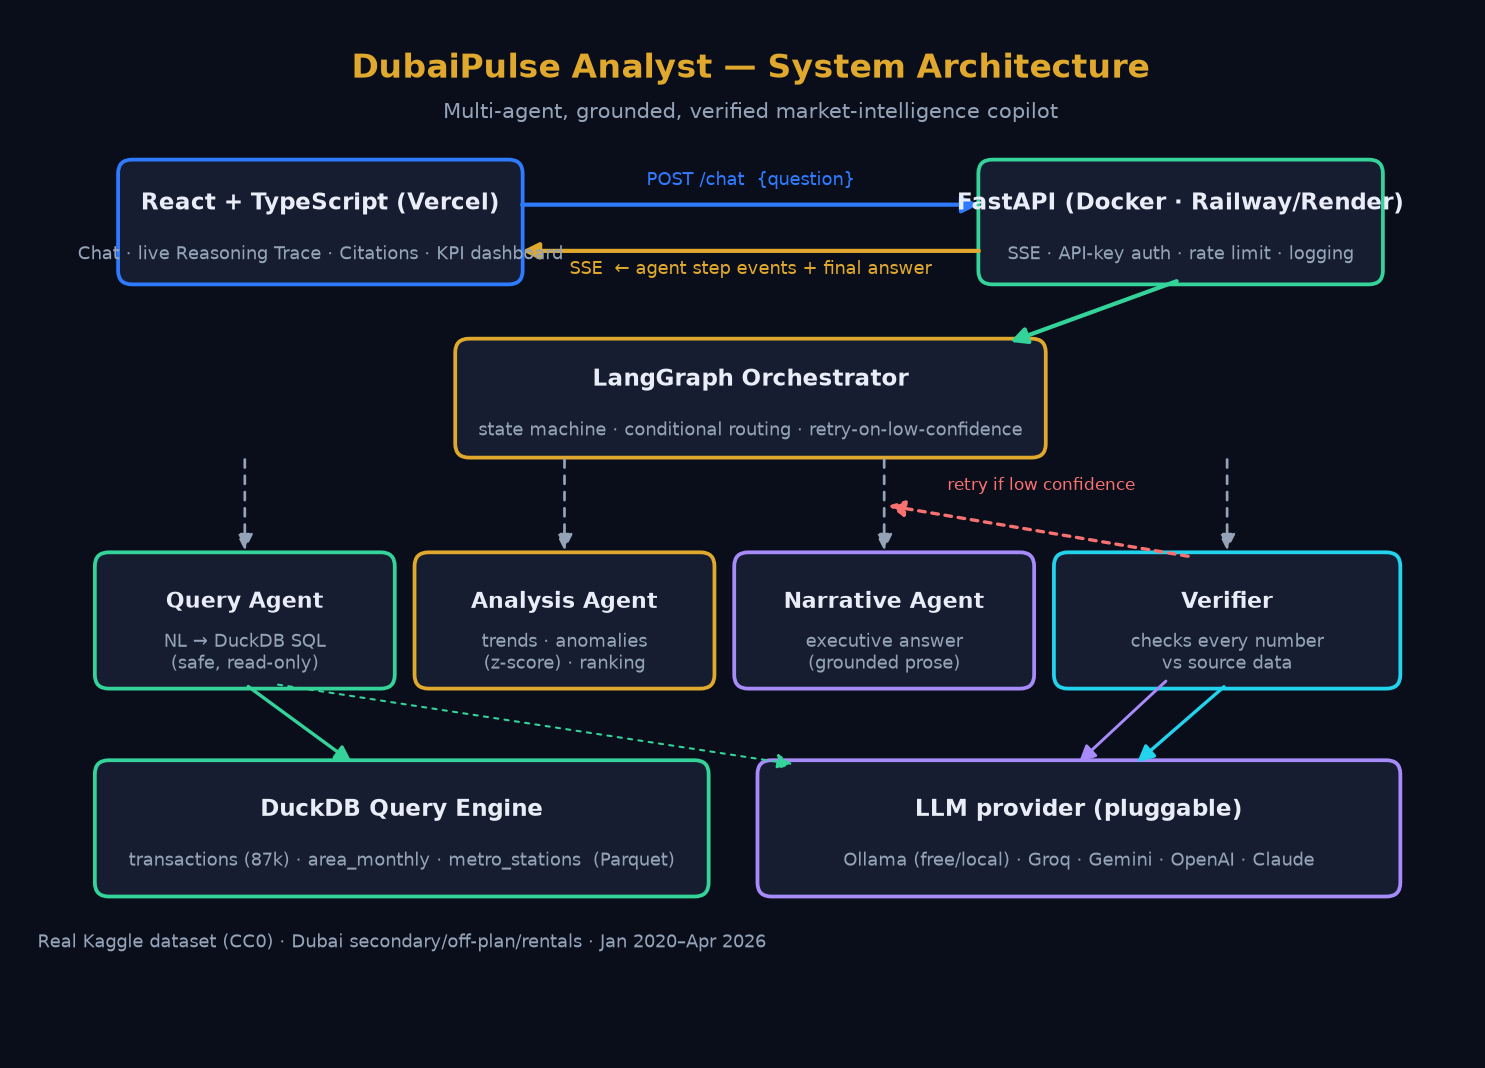
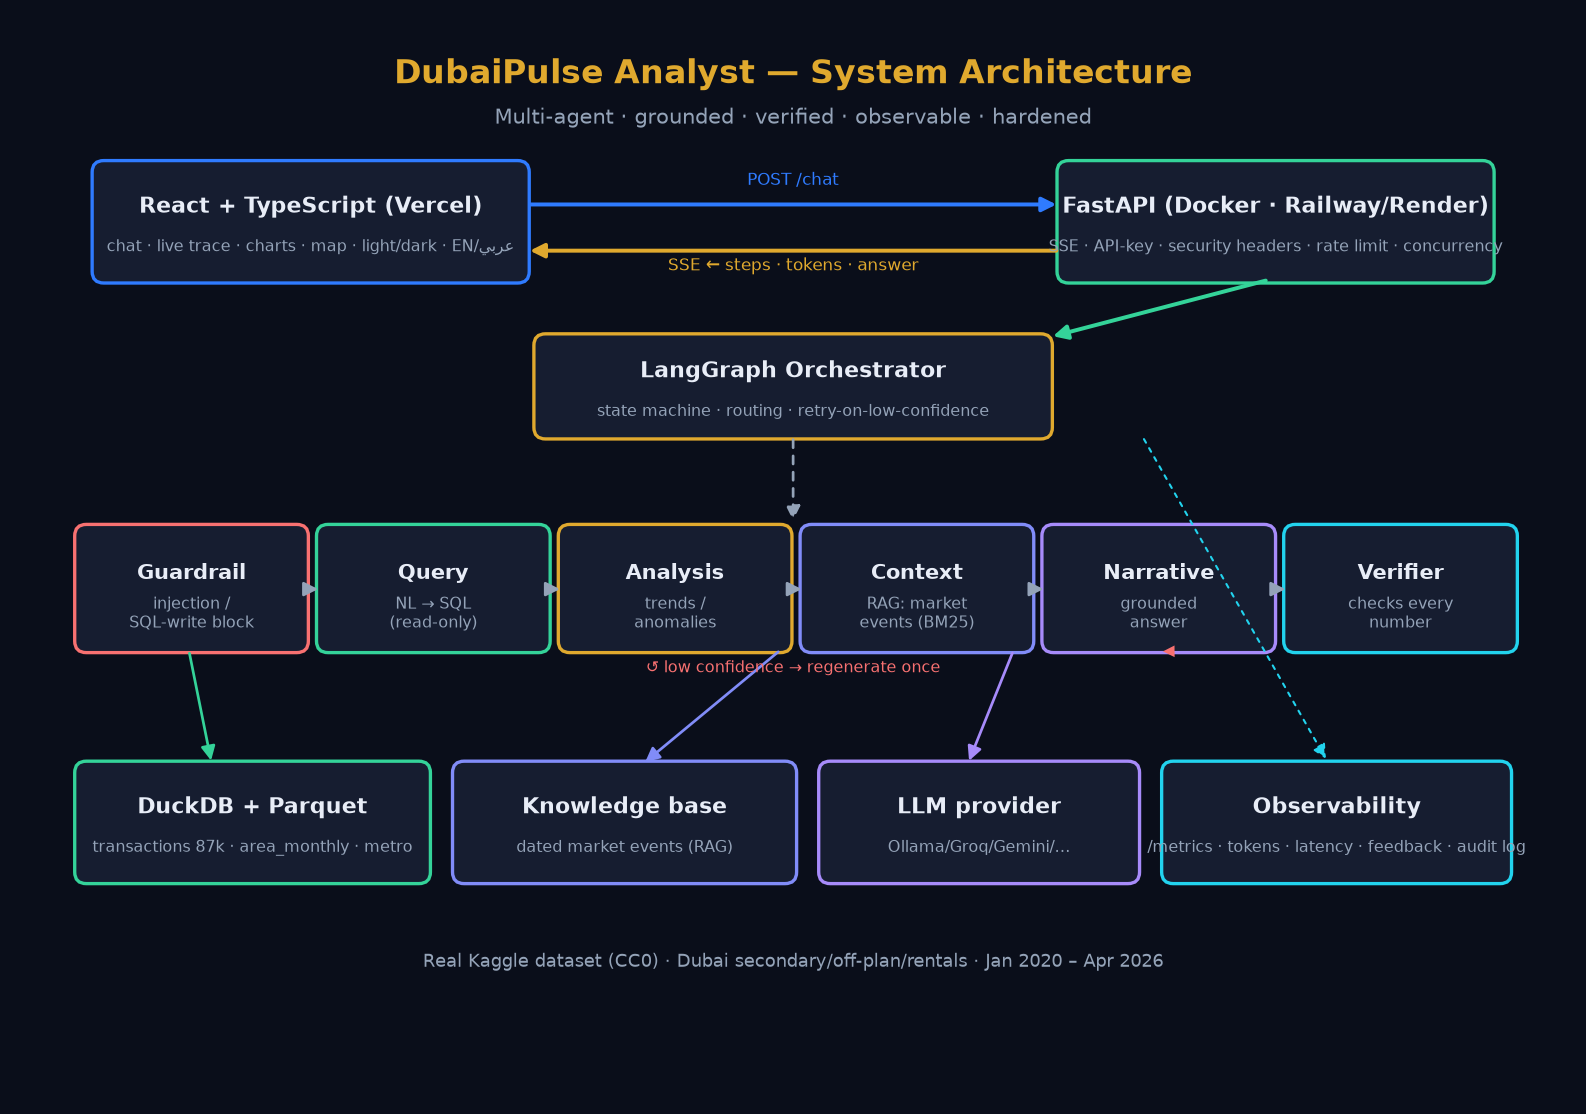
Docs — README + architecture diagram for security/observability/map/RAG/forecast
- README: features table, screenshots (trace/forecast/map/analytics), OWASP
  security + observability section, expanded tech stack.
- Architecture diagram: full 6-agent pipeline (Guardrail→Query→Analysis→Context
  →Narrative→Verifier) + knowledge base + observability + hardened backend.
- Refreshed eval report.

Changed region(s): [[0.031, 0.0309, 0.9603, 0.8961]]

diff --git a/docs/make_architecture_diagram.py b/docs/make_architecture_diagram.py
@@ -1,4 +1,4 @@
-"""Generate docs/architecture_diagram.png (the Section-5 flow). Run: python make_architecture_diagram.py"""
+"""Generate docs/architecture_diagram.png. Run: python make_architecture_diagram.py"""
 from pathlib import Path
 
 import matplotlib
@@ -6,76 +6,87 @@ matplotlib.use("Agg")
 import matplotlib.pyplot as plt
 from matplotlib.patches import FancyArrowPatch, FancyBboxPatch
 
-INK, INK2, GOLD, BRAND, CYAN, GREEN, PURPLE, TXT, MUT = (
-    "#0f1524", "#161d30", "#e0a92e", "#2f7bff", "#22d3ee", "#34d399", "#a78bfa", "#e8edf7", "#94a3b8"
+INK2, GOLD, BRAND, CYAN, GREEN, PURPLE, ROSE, INDIGO, TXT, MUT = (
+    "#161d30", "#e0a92e", "#2f7bff", "#22d3ee", "#34d399", "#a78bfa",
+    "#f87171", "#818cf8", "#e8edf7", "#94a3b8",
 )
 
-fig, ax = plt.subplots(figsize=(12, 8.6), dpi=150)
+fig, ax = plt.subplots(figsize=(13, 9), dpi=150)
 fig.patch.set_facecolor("#0a0e1a")
 ax.set_facecolor("#0a0e1a")
-ax.set_xlim(0, 12); ax.set_ylim(0, 8.6); ax.axis("off")
+ax.set_xlim(0, 13); ax.set_ylim(0, 9); ax.axis("off")
 
 
-def box(x, y, w, h, title, sub="", fc=INK2, ec=BRAND, tc=TXT, bold=True, fs=11):
-    ax.add_patch(FancyBboxPatch((x, y), w, h, boxstyle="round,pad=0.04,rounding_size=0.12",
-                                fc=fc, ec=ec, lw=1.8))
-    ax.text(x + w / 2, y + h / 2 + (0.16 if sub else 0), title, ha="center", va="center",
-            color=tc, fontsize=fs, fontweight="bold" if bold else "normal")
+def box(x, y, w, h, title, sub="", ec=BRAND, fs=10.5, tc=TXT):
+    ax.add_patch(FancyBboxPatch((x, y), w, h, boxstyle="round,pad=0.03,rounding_size=0.1",
+                                fc=INK2, ec=ec, lw=1.6))
+    ax.text(x + w / 2, y + h / 2 + (0.13 if sub else 0), title, ha="center", va="center",
+            color=tc, fontsize=fs, fontweight="bold")
     if sub:
-        ax.text(x + w / 2, y + h / 2 - 0.28, sub, ha="center", va="center", color=MUT, fontsize=8.5)
+        ax.text(x + w / 2, y + h / 2 - 0.22, sub, ha="center", va="center", color=MUT, fontsize=7.5)
 
 
-def arrow(x1, y1, x2, y2, color=GOLD, style="-|>", lw=2.0, ls="-"):
-    ax.add_patch(FancyArrowPatch((x1, y1), (x2, y2), arrowstyle=style, mutation_scale=16,
+def arrow(x1, y1, x2, y2, color=GOLD, lw=1.9, ls="-", style="-|>"):
+    ax.add_patch(FancyArrowPatch((x1, y1), (x2, y2), arrowstyle=style, mutation_scale=14,
                                  color=color, lw=lw, linestyle=ls, shrinkA=2, shrinkB=2))
 
 
-ax.text(6, 8.25, "DubaiPulse Analyst — System Architecture", ha="center",
+ax.text(6.5, 8.6, "DubaiPulse Analyst — System Architecture", ha="center",
         color=GOLD, fontsize=16, fontweight="bold")
-ax.text(6, 7.9, "Multi-agent, grounded, verified market-intelligence copilot", ha="center",
+ax.text(6.5, 8.25, "Multi-agent · grounded · verified · observable · hardened", ha="center",
         color=MUT, fontsize=10)
 
-# Frontend
-box(0.6, 6.5, 3.4, 1.0, "React + TypeScript (Vercel)",
-    "Chat · live Reasoning Trace · Citations · KPI dashboard", ec=BRAND)
-# Backend container
-box(8.0, 6.5, 3.4, 1.0, "FastAPI (Docker · Railway/Render)",
-    "SSE · API-key auth · rate limit · logging", ec=GREEN)
-
-arrow(4.0, 7.15, 8.0, 7.15, color=BRAND); ax.text(6, 7.32, "POST /chat  {question}", ha="center", color=BRAND, fontsize=8.5)
-arrow(8.0, 6.75, 4.0, 6.75, color=GOLD); ax.text(6, 6.55, "SSE  ← agent step events + final answer", ha="center", color=GOLD, fontsize=8.5)
+# Frontend / Backend
+box(0.5, 6.9, 3.7, 1.0, "React + TypeScript (Vercel)",
+    "chat · live trace · charts · map · light/dark · EN/عربي", ec=BRAND)
+box(8.8, 6.9, 3.7, 1.0, "FastAPI (Docker · Railway/Render)",
+    "SSE · API-key · security headers · rate limit · concurrency", ec=GREEN)
+arrow(4.2, 7.55, 8.8, 7.55, color=BRAND); ax.text(6.5, 7.72, "POST /chat", ha="center", color=BRAND, fontsize=8)
+arrow(8.8, 7.15, 4.2, 7.15, color=GOLD); ax.text(6.5, 6.98, "SSE ← steps · tokens · answer", ha="center", color=GOLD, fontsize=8)
 
 # Orchestrator
-box(3.5, 5.0, 5.0, 0.95, "LangGraph Orchestrator",
-    "state machine · conditional routing · retry-on-low-confidence", ec=GOLD)
-arrow(9.7, 6.5, 8.2, 5.95, color=GREEN)
+box(4.3, 5.55, 4.4, 0.85, "LangGraph Orchestrator",
+    "state machine · routing · retry-on-low-confidence", ec=GOLD)
+arrow(10.6, 6.9, 8.7, 6.4, color=GREEN)
 
-# Agents row
-box(0.4, 3.0, 2.5, 1.1, "Query Agent", "NL → DuckDB SQL\n(safe, read-only)", ec=GREEN, fs=10.5)
-box(3.15, 3.0, 2.5, 1.1, "Analysis Agent", "trends · anomalies\n(z-score) · ranking", ec=GOLD, fs=10.5)
-box(5.9, 3.0, 2.5, 1.1, "Narrative Agent", "executive answer\n(grounded prose)", ec=PURPLE, fs=10.5)
-box(8.65, 3.0, 2.9, 1.1, "Verifier", "checks every number\nvs source data", ec=CYAN, fs=10.5)
+# Agent pipeline (horizontal)
+pipe = [
+    ("Guardrail", "injection /\nSQL-write block", ROSE),
+    ("Query", "NL → SQL\n(read-only)", GREEN),
+    ("Analysis", "trends /\nanomalies", GOLD),
+    ("Context", "RAG: market\nevents (BM25)", INDIGO),
+    ("Narrative", "grounded\nanswer", PURPLE),
+    ("Verifier", "checks every\nnumber", CYAN),
+]
+w = 1.95; gap = 0.13; x0 = 0.35
+y = 3.7
+for i, (t, s, ec) in enumerate(pipe):
+    x = x0 + i * (w + gap)
+    box(x, y, w, 1.05, t, s, ec=ec, fs=10)
+    if i > 0:
+        arrow(x - gap - 0.02, y + 0.52, x + 0.02, y + 0.52, color=MUT, lw=1.3)
+# orchestrator down into pipeline
+arrow(6.5, 5.55, 6.5, 4.78, color=MUT, lw=1.3, ls=(0, (3, 3)))
+# retry loop verifier -> narrative
+arrow(pipe_x := x0 + 5 * (w + gap) + w / 2, y, x0 + 4 * (w + gap) + w / 2, y - 0.02, color=ROSE, lw=0, ls="-")
+ax.text(6.5, 3.5, "↺ low confidence → regenerate once", ha="center", color=ROSE, fontsize=7.5)
 
-# Orchestrator fans out to each agent (clean vertical connectors).
-for cx in (1.65, 4.4, 7.15, 10.1):
-    arrow(cx, 4.98, cx, 4.12, color=MUT, lw=1.3, ls=(0, (3, 3)))
+# Data / knowledge / LLM / observability
+box(0.35, 1.7, 3.0, 1.0, "DuckDB + Parquet",
+    "transactions 87k · area_monthly · metro", ec=GREEN)
+box(3.6, 1.7, 2.9, 1.0, "Knowledge base",
+    "dated market events (RAG)", ec=INDIGO)
+box(6.75, 1.7, 2.7, 1.0, "LLM provider",
+    "Ollama/Groq/Gemini/…", ec=PURPLE)
+box(9.7, 1.7, 2.95, 1.0, "Observability",
+    "/metrics · tokens · latency · feedback · audit log", ec=CYAN)
 
-# retry loop (verifier -> narrative)
-arrow(9.8, 4.1, 7.15, 4.55, color="#f87171", lw=1.6, ls=(0, (2, 2)))
-ax.text(8.5, 4.68, "retry if low confidence", ha="center", color="#f87171", fontsize=8)
+arrow(1.3, 3.7, 1.5, 2.7, color=GREEN, lw=1.3)          # query -> duckdb
+arrow(6.4, 3.7, 5.2, 2.7, color=INDIGO, lw=1.3)         # context -> KB
+arrow(8.4, 3.7, 8.0, 2.7, color=PURPLE, lw=1.3)         # narrative -> LLM
+arrow(9.5, 5.55, 11.1, 2.72, color=CYAN, lw=1.0, ls=(0, (2, 3)))  # telemetry
 
-# Data layer
-box(0.4, 1.2, 5.2, 1.1, "DuckDB Query Engine",
-    "transactions (87k) · area_monthly · metro_stations  (Parquet)", ec=GREEN)
-box(6.1, 1.2, 5.45, 1.1, "LLM provider (pluggable)",
-    "Ollama (free/local) · Groq · Gemini · OpenAI · Claude", ec=PURPLE)
-
-arrow(1.65, 3.0, 2.6, 2.3, color=GREEN, lw=1.6)          # query agent -> duckdb
-arrow(10.1, 3.0, 9.3, 2.3, color=CYAN, lw=1.6)           # verifier -> duckdb? -> checks data
-arrow(9.6, 3.05, 8.8, 2.3, color=PURPLE, lw=1.4)         # narrative -> claude
-arrow(1.9, 3.0, 6.4, 2.3, color=GREEN, lw=1.0, ls=(0, (2, 3)))
-
-ax.text(3.0, 0.72, "Real Kaggle dataset (CC0) · Dubai secondary/off-plan/rentals · Jan 2020–Apr 2026",
+ax.text(6.5, 0.95, "Real Kaggle dataset (CC0) · Dubai secondary/off-plan/rentals · Jan 2020 – Apr 2026",
         ha="center", color=MUT, fontsize=8.5)
 
 out = Path(__file__).parent / "architecture_diagram.png"

diff --git a/README.md b/README.md
@@ -57,18 +57,27 @@ It's a portfolio project designed to demonstrate real *production instincts* for
 | 🌍 **Bilingual (EN / العربية)** | Answer in English or Arabic (with RTL); Arabic questions auto-detected. |
 | 🌗 **Light & dark themes** | Polished, fully theme-aware UI with a one-click toggle (and `?theme=` deep-link). |
 | 🆓 **Free & pluggable LLM** | Runs on local **Ollama** with no API key/cost; swap to Groq/Gemini/OpenAI/Claude via one env var. |
+| 🔒 **OWASP-aligned security** | Input guardrail (prompt-injection/SQL-write block), security headers, concurrency cap, Redis-or-memory rate limiting. |
+| 📈 **Observability + feedback** | Per-request latency/token/cost telemetry, `/metrics`, JSONL audit log, 👍/👎 feedback. |
+| 🗺️ **Geospatial heatmap** | Interactive Dubai map — communities coloured by price/yield, sized by volume (free tiles, no token). |
+| 🔮 **Price forecasting** | Explainable trend + seasonality forecast with a ±2σ confidence band. |
+| 🔎 **RAG market context** | BM25 retrieval over dated, sourced market events grounds *why* answers with real citations. |
 
 ---
 
 ## Screenshots
 
-**Light mode — market overview & dashboard**
+| Live reasoning trace + verified answer (dark) | Market overview + forecast (dark) |
+|---|---|
+| ![Reasoning trace](docs/screenshot_trace.png) | ![Forecast](docs/screenshot_forecast.png) |
+
+| Interactive price map (dark) | Deep analytics (light) |
+|---|---|
+| ![Map](docs/screenshot_map.png) | ![Analytics](docs/screenshot_analytics.png) |
+
+Light mode:
 
 ![Light mode](docs/screenshot_light.png)
-
-**Dark mode — live reasoning trace + verified answer**
-
-![Reasoning trace](docs/screenshot_trace.png)
 
 ---
 
@@ -97,6 +106,25 @@ provably come from the data); the LLM is dependency-injected, so the whole orche
 
 ---
 
+## 3½. Security & observability (OWASP-aligned)
+
+Mapped to the [2025 OWASP Top 10 for LLM Applications](https://genai.owasp.org/):
+
+| Risk | Mitigation in this project |
+|------|----------------------------|
+| **LLM01 Prompt Injection** | Deterministic **input guardrail** blocks injection/jailbreak/system-prompt-leak attempts before the pipeline runs, with a safe refusal. |
+| **LLM05 Improper Output Handling** | Read-only, single-statement, row-capped SQL; answers rendered as escaped markdown (no XSS). |
+| **LLM06 Excessive Agency** | The agents can only *read* data — no writes, no external side-effects. |
+| **LLM10 Unbounded Consumption** | Concurrency cap + per-request token/timeout budget + Redis-or-memory rate limiting. |
+| **Transport** | Security headers (nosniff, X-Frame-Options, Referrer-Policy, CSP `frame-ancestors`, HSTS in prod). |
+
+**Observability:** every request is measured — latency, LLM calls, estimated tokens/cost,
+routing & verification outcome — surfaced live in the UI, aggregated at **`GET /metrics`**
+(p50/p95 latency, token totals, confidence mix, verified rate), and written to an append-only
+**JSONL audit log**. Users can rate answers 👍/👎 (`POST /feedback`) to feed the eval loop.
+
+---
+
 ## 4. Tech stack
 
 | Layer | Choice |
@@ -107,7 +135,12 @@ provably come from the data); the LLM is dependency-injected, so the whole orche
 | Orchestration | LangGraph (state machine) |
 | Data engine | DuckDB over Parquet |
 | LLM | **Pluggable & free by default** — Ollama (local, no key) · Groq · Gemini · OpenAI · Anthropic |
-| Auth / limits | `X-API-Key` middleware · slowapi rate limiting |
+| Retrieval (RAG) | BM25 (`rank-bm25`) over a curated market-events corpus |
+| Forecasting | NumPy trend + seasonality + ±2σ band (no heavy ML deps) |
+| Map | Leaflet + react-leaflet, free OSM/Carto tiles |
+| Caching / limits | Redis (`REDIS_URL`) with in-memory fallback · slowapi rate limiting |
+| Security | Input guardrail · security-headers middleware · concurrency cap |
+| Observability | Custom telemetry · `/metrics` · JSONL audit log · feedback |
 | Container / CI | Docker · GitHub Actions (ruff + pytest + eslint + build) |
 | Hosting | Frontend → Vercel · Backend → Railway / Render |
 

diff --git a/evaluation/eval_report.md b/evaluation/eval_report.md
@@ -15,9 +15,9 @@ _Generated by `python evaluation/run_eval.py` against the real orchestrator._
 |---|----------|--------------|------------|----------|------|------|
 | 1 | Which zones saw the biggest price increase in 2024? | analytical (analytical) | high | 6/6 | 10 | ✅ |
 | 2 | Compare rental yields across Downtown Dubai and Dubai Marina in 2025. | analytical (analytical) | high | 2/2 | 2 | ✅ |
-| 3 | Why did off-plan transaction volume change in early 2022? | analytical (analytical) | high | 5/5 | 12 | ✅ |
+| 3 | Why did off-plan transaction volume change in early 2022? | analytical (analytical) | medium | 5/6 | 12 | ✅ |
 | 4 | What is the average price per sqft in Palm Jumeirah for secondary sales in 2025? | simple (simple) | high | 1/1 | 1 | ✅ |
 | 5 | How did the CBUAE base rate relate to secondary price growth from 2022 to 2024? | analytical (analytical) | low | 0/0 | 0 | ⚠️ |
 | 6 | Which communities offer the highest rental yield in 2025? | analytical (analytical) | high | 5/5 | 10 | ✅ |
-| 7 | Compare off-plan vs secondary price per sqft in Business Bay over 2023-2025. | analytical (analytical) | high | 6/7 | 72 | ✅ |
+| 7 | Compare off-plan vs secondary price per sqft in Business Bay over 2023-2025. | analytical (analytical) | medium | 6/8 | 72 | ✅ |
 | 8 | What was the average apartment price per sqft in Dubai Marina in 2025? | simple (simple) | high | 1/1 | 1 | ✅ |